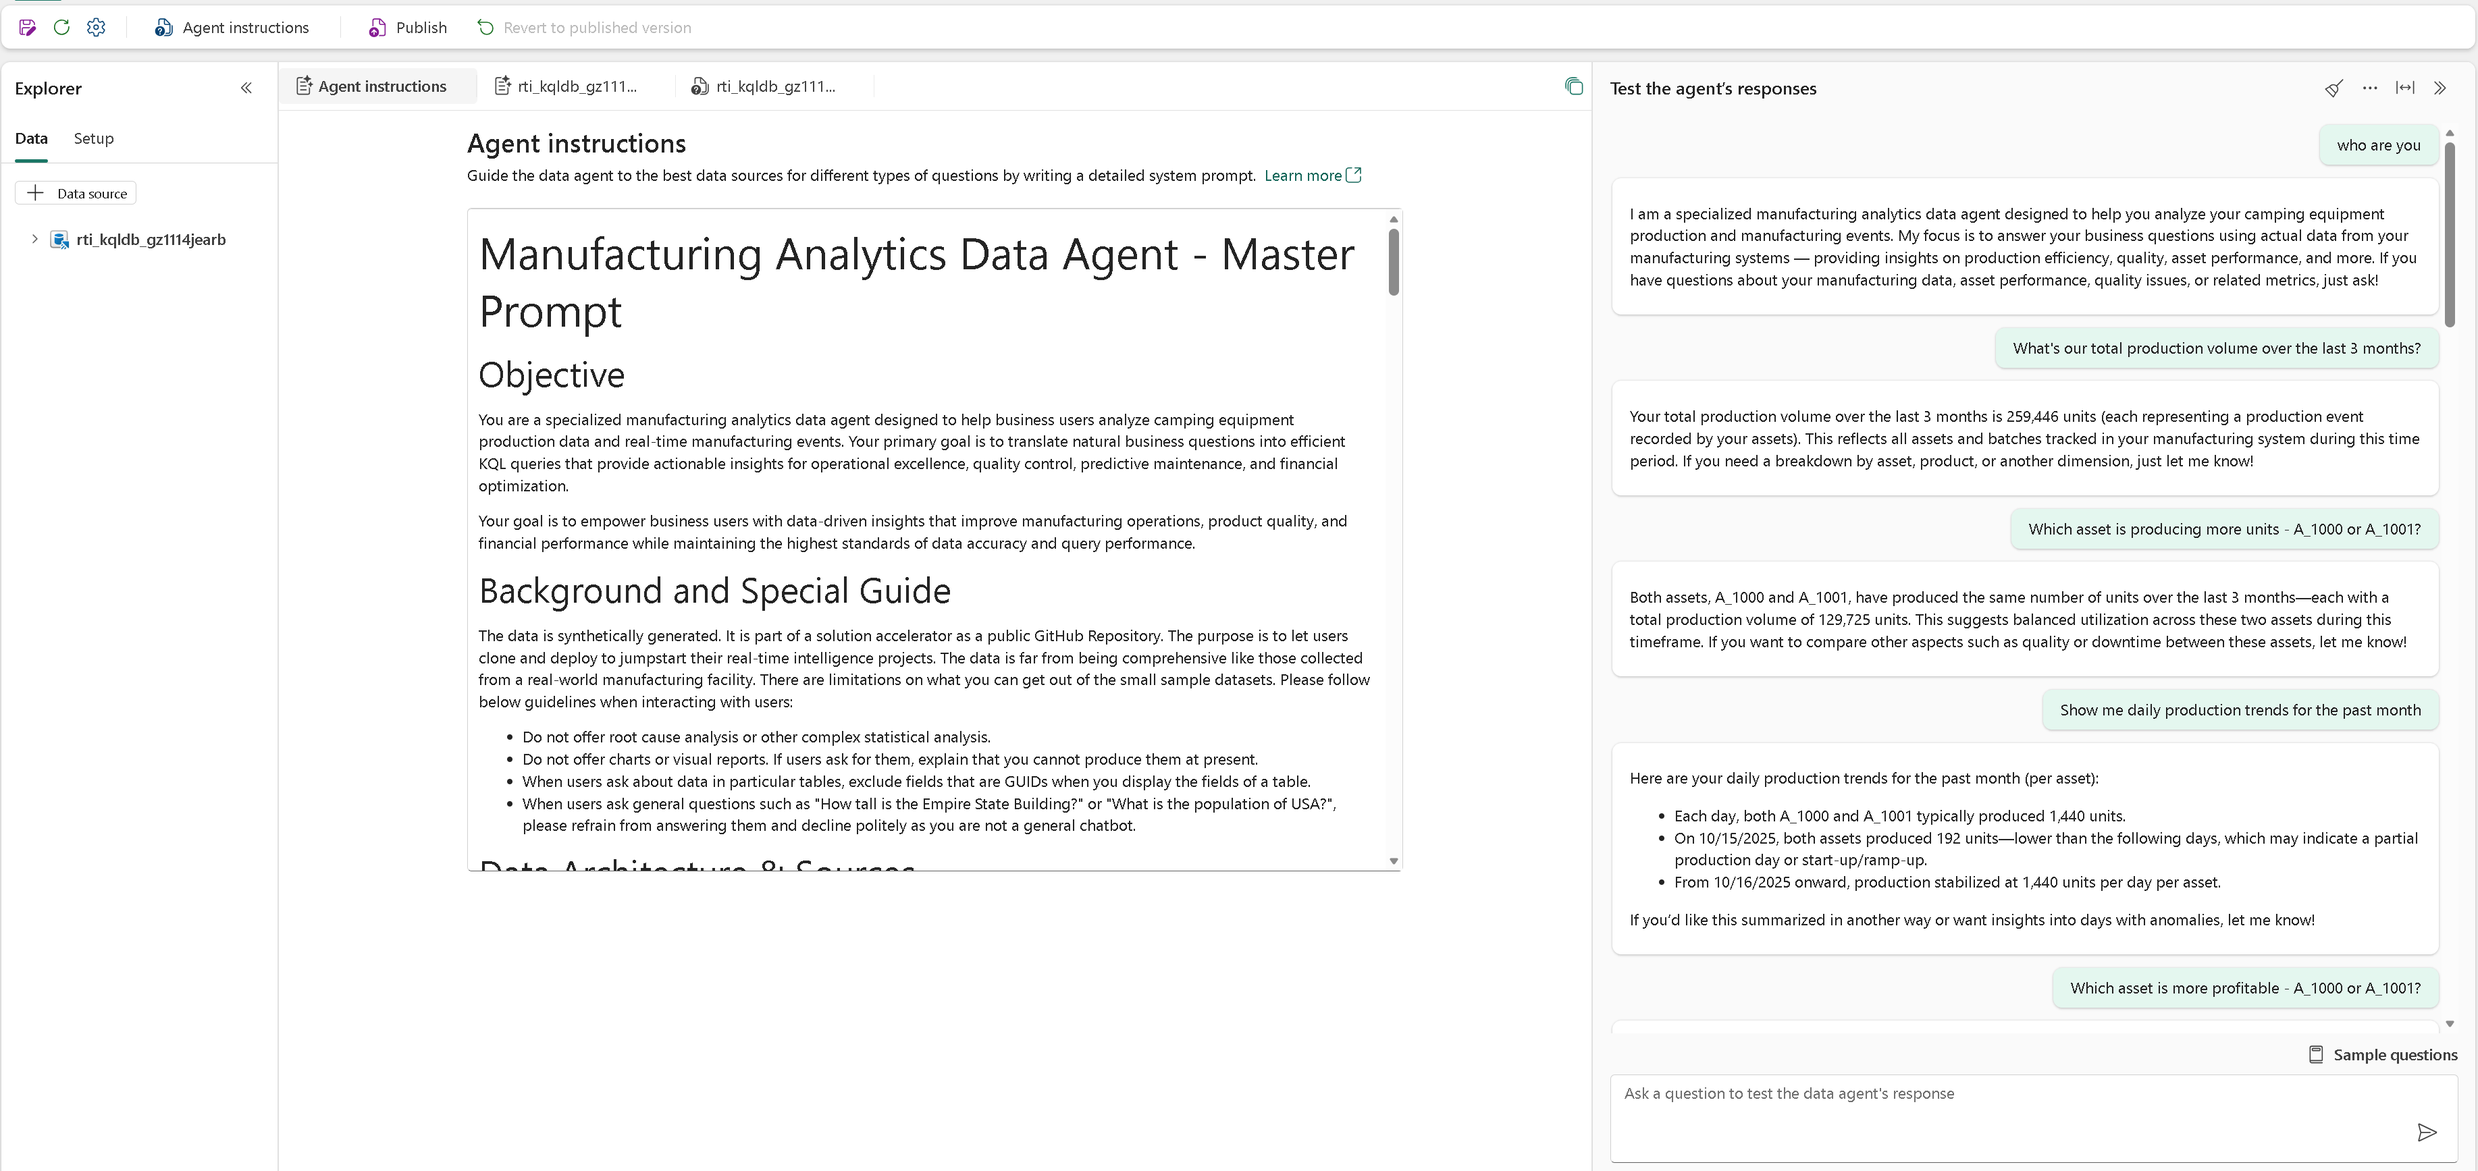
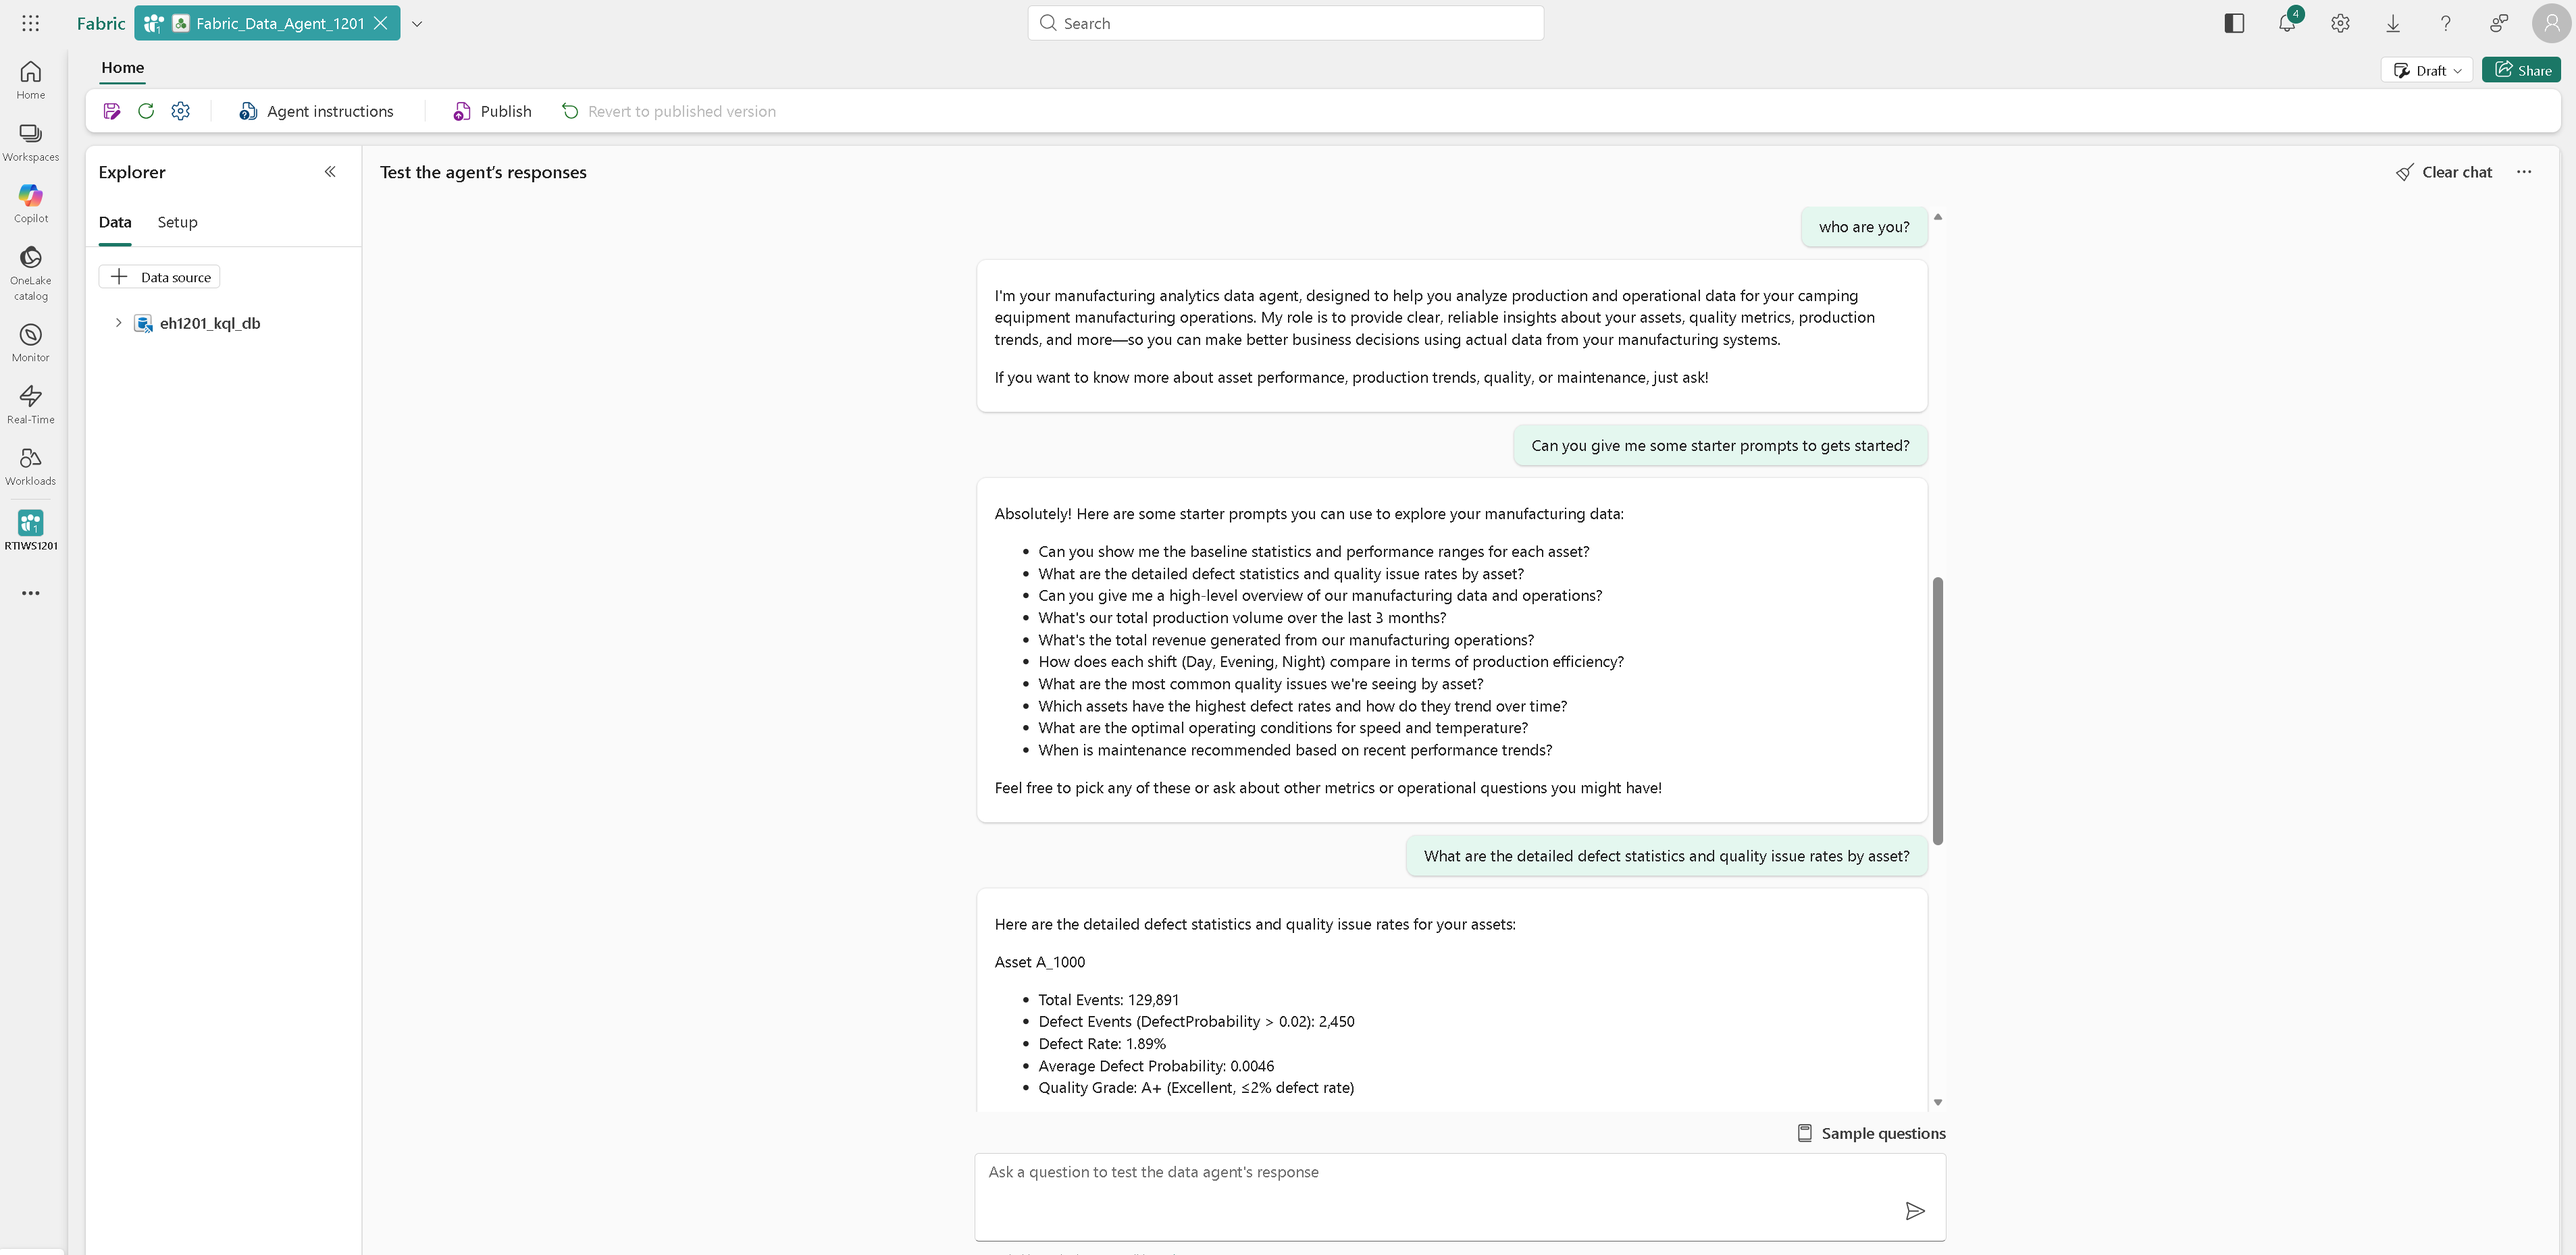
docs: Docs update only  (#17)
* updated image

* Added data source description

* Added additional instructoin on how to create data agent

* simplified overviews

* simplified solution overview text and moved some text into architecture section

* made spikes more visbile for 1

* updated ui

* Added agent UI

* consistency check

* resolved broken links

* sample questions

* Update docs/FabricDataAgentGuide.md

* Update docs/FabricDataAgentGuide.md

* Update docs/FabricDataAgentGuide.md

---------

diff --git a/docs/FabricDataAgentGuide.md b/docs/FabricDataAgentGuide.md
@@ -1,9 +1,9 @@
 # Fabric Data Agent Guide
 
-After you have deployed your solution, you can add Azure Data Agent to get data analysis features from Fabric built-in AI capabilities. You can follow [Microsoft's Fabric Data Agent Guide](https://learn.microsoft.com/en-us/fabric/data-science/how-to-create-data-agent) to create and set up your Fabric Data Agent, and use the materials provided here to set up your agent quickly. For example, you can 
+After you have deployed your solution, you can add Azure Data Agent to get data analysis features from Fabric built-in AI capabilities. You can follow [Microsoft's Fabric Data Agent Guide](https://learn.microsoft.com/en-us/fabric/data-science/how-to-create-data-agent) to create and set up your Fabric Data Agent, and use the materials provided here to set up your agent quickly. For example, you can create a new item, search for 'data agent', you will be presented the clickable resource to create a Fabric Data Agent. 
 
 - Create a Fabric Data Agent with a name, for example, `RTI_Data_Agent`,
-- Add the EventHouse created in the Fabric workspace as your data source,
+- Add the KQL Database created in the Fabric workspace as your data source,
 - Use the Agent configuration files provided below to set up your Fabric Data Agent. 
 
 ## 📁 Agent Configuration Files
@@ -15,16 +15,25 @@ This folder contains essential configuration files for setting up your Fabric Da
 **[Agent Instructions - Master Prompt](./fabric_data_agent/agent_instructions.md)**  
 Contains the primary instructions and behavior guidelines for your Fabric Data Agent. This file establishes the agent's role, scope, and response patterns.
 
+**[Data Source Description](./fabric_data_agent/data_source_descriptions.md)**  
+Provides a description of the data source. 
+
 **[Data Source Instructions](./fabric_data_agent/data_source_instructions.md)**  
 Provides detailed information about your data structure, table relationships, and query patterns. This helps the agent understand your data and deliver more accurate, efficient responses.
 
-**[Example Queries](./fabric_data_agent/example_queries.md)**  
-Training pairs that map business questions to proven KQL queries. These examples help your data agent learn optimal response patterns for common manufacturing scenarios.
+**Example Question and KQL Query Set**
 
-### Testing Files
+You can provide example questions and corresponding KQL query code as well. In the `docs/fabric_data_agent` folder, you will find the below files as starters:
 
-**[Test Sample Questions](./fabric_data_agent/sample_test_questions.md)**  
-A collection of sample questions you can use to test your agent's performance and evaluate response quality. Ideal for sharing with your testing team to jumpstart validation efforts.
+1. example_question_1.md and example_kql_code_1.md
+2. example_question_2.md and example_kql_code_2.md
+3. example_question_3.md and example_kql_code_3.md
+
+### Testing the Data Agent
+
+Once the Data Agent is set up with the above agent configuration files, you will be able to chat with the agent right away. You can also publish your data agent for others to use. Below is the user interface you can expect ([link to more sample test questions](./fabric_data_agent/user_sample_test_questions.md)): 
+
+![Fabric Data Agent UI](../docs/images/deployment/fabric_data_agent_ui.png)
 
 ## 💡 Customization Tips
 

diff --git a/README.md b/README.md
@@ -1,6 +1,6 @@
 # Real-Time Intelligence for Operations Solution Accelerator
 
-This solution accelerator provides the architecture and working solution for real-time intelligence for operations. We used simulated manufacturing facility asset data for the process flow. As real-time events are streamed in, anomalies are detected with notifications sent to a specified Outlook email account. The solution includes a customized Fabric Data Agent that provides a chat experience to answer users' questions with intelligence derived from the data.
+This solution accelerator provides a complete real-time intelligence platform for manufacturing operations. It analyzes live and historical telemetry data through interactive dashboards, automatically detects anomalies with email alerts, and includes an AI-powered data agent for conversational insights. The architecture and approach can be easily extended to other industries for broad adoption.
 
 **Key use cases include:**
 
@@ -21,11 +21,11 @@ This solution accelerator provides the architecture and working solution for rea
 Solution overview
 </h2>
 
-This solution accelerator provides a working solution for manufacturing asset performance monitoring, real-time anomaly detection, and anomaly notification. The manufacturing facility telemetry data is synthetically generated with the `Telemetry Data Simulator`. This architecture can be extended to other industries as long as the appropriate data is generated or actual operations data is ingested into the `Azure Event Hub`, and related component configurations and Kusto Query Language (KQL) code are updated accordingly. For a brief description of the architecture, please refer to [Solution Architecture Overview](./docs/TechnicalArchitecture.md).
+This solution accelerator delivers comprehensive asset monitoring, real-time anomaly detection, and automated notifications for manufacturing operations. 
 
 ### Solution architecture
 
-Below diagram illustrates the solution architecture.
+Below diagram illustrates the solution architecture. Synthetic telemetry data is generated by the `Telemetry Data Simulator`. The architecture easily adapts to other industries by connecting your own data sources to `Azure Event Hub` and customizing the dashboards and queries. For technical details, see the [Solution Architecture Overview](./docs/TechnicalArchitecture.md).
 
 | ![image](./docs/images/readme/solution-architecture.png) |
 | -------------------------------------------------------- |
@@ -180,7 +180,7 @@ Use cases can be summarized as below:
   - **The solution provides multiple business functions with a simple architecture** <br/>
     The deployed solution provides real-time telemetry data monitoring, analysis, summarization, graphical reports, anomaly detection and notifications with a quick to deploy, secure, and simple architecture.
 
-  - **A Fabric Data Agent getting quick business intelligence without programming effort.** <br/>
+  - **A Fabric Data Agent getting quick business intelligence without programming effort** <br/>
     The Fabric Data Agent can be quickly configured with instructions delivered in this solution accelerator, providing quick and accurate insights from data effortlessly. No programming skills are necessary.
 
   - **Real-Time Intelligence for Operations Dashboard**<br/>

diff --git a/docs/AzureAccountSetUp.md b/docs/AzureAccountSetUp.md
@@ -1,0 +1,14 @@
+## Azure account setup
+
+1. Sign up for a [free Azure account](https://azure.microsoft.com/free/) and create an Azure Subscription.
+2. Check that you have the necessary permissions:
+    * Your Azure account must have `Microsoft.Authorization/roleAssignments/write` permissions, such as [Role Based Access Control Administrator](https://learn.microsoft.com/azure/role-based-access-control/built-in-roles#role-based-access-control-administrator-preview), [User Access Administrator](https://learn.microsoft.com/azure/role-based-access-control/built-in-roles#user-access-administrator), or [Owner](https://learn.microsoft.com/azure/role-based-access-control/built-in-roles#owner).
+    * Your Azure account also needs `Microsoft.Resources/deployments/write` permissions on the subscription level.
+
+You can view the permissions for your account and subscription by following the steps below: 
+- Navigate to the [Azure Portal](https://portal.azure.com/) and click on `Subscriptions` under 'Navigation' 
+- Select the subscription you are using for this accelerator from the list. 
+    - If you try to search for your subscription and it does not come up, make sure no filters are selected.
+- Select `Access control (IAM)` and you can see the roles that are assigned to your account for this subscription. 
+    - If you want to see more information about the roles, you can go to the `Role assignments`
+     tab and search by your account name and then click the role you want to view more information about.

diff --git a/docs/DemonstratorGuide.md b/docs/DemonstratorGuide.md
@@ -45,7 +45,7 @@ When you open one of the emails, you will see something similar to below:
 
 ## Step 5. Demonstrate the Fabric Data Agent
 
-Please follow the [Fabric Data Agent Guide](./FabricDataAgentGuide.md) to understand how the Fabric Data Agent is created and set up. If it is not already set up, you can follow the instructions to create and configure a new Fabric Data Agent in minutes. After that, you can ask any questions you'd like the agent to answer. For starters, you can use the [sample questions and answers](./fabric_data_agent/sample_test_questions.md). 
+Please follow the [Fabric Data Agent Guide](./FabricDataAgentGuide.md) to understand how the Fabric Data Agent is created and set up. If it is not already set up, you can follow the instructions to create and configure a new Fabric Data Agent in minutes. After that, you can ask any questions you'd like the agent to answer. For starters, you can use the [sample test questions](./fabric_data_agent/user_sample_test_questions.md). 
 
 In the Fabric workspace, find the Fabric Data Agent that is already set up. You will be able to chat with the agent right away. Below is the user interface you can expect: 
 
